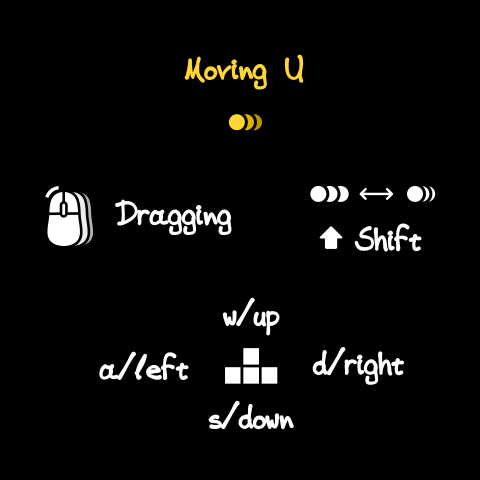
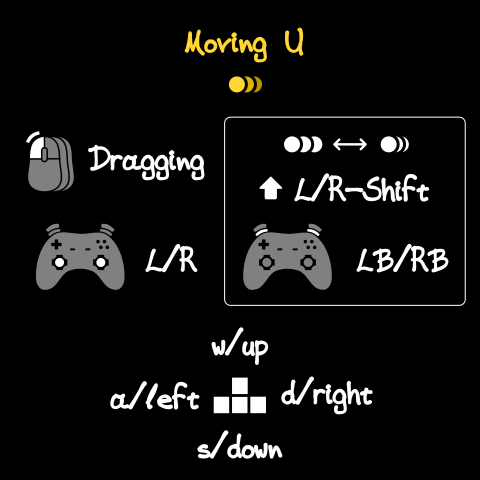
Support Gamepad control

diff --git a/src/reactor/state/running.rs b/src/reactor/state/running.rs
@@ -19,8 +19,10 @@ impl Plugin for StatePlugin {
             .add_systems(
                 Update,
                 (
+                    detect_sensitivity_modification,
                     control_u_by_mouse,
                     control_u_by_keyboard,
+                    control_u_by_gamepad,
                     handle_pause_btn.after(NavRequestSystem),
                     move_particle,
                     field::update_reactor_fields,
@@ -182,31 +184,6 @@ fn move_particle(
     }
 }
 
-fn control_u_by_mouse(
-    mut panel_query: Query<&Interaction, (With<Interaction>, With<GameControlPanel>)>,
-    mut u_particle_query: Query<(&mut Particle, &mut Transform), With<reactor::ControlParticle>>,
-    mut mouse_motion_events: EventReader<input::mouse::MouseMotion>,
-    keyboard_input: Res<Input<KeyCode>>,
-    settings: Res<Persistent<app::settings::Settings>>,
-) {
-    for interaction in &mut panel_query {
-        if *interaction == Interaction::Pressed {
-            let events = mouse_motion_events.read().collect::<Vec<_>>();
-            for event in events.iter().rev().take(3) {
-                let (mut u_particle, mut u_transform) = u_particle_query.get_single_mut().unwrap();
-                let new_pos = calculate_u_new_pos(
-                    u_particle.pos(),
-                    event.delta,
-                    current_sensitivity(&keyboard_input, &settings),
-                );
-                u_particle.jump(new_pos);
-                u_transform.translation.x = new_pos.x;
-                u_transform.translation.y = new_pos.y;
-            }
-        }
-    }
-}
-
 fn handle_pause_btn(
     mut actions: Query<&mut ButtonAction>,
     mut events: EventReader<NavEvent>,
@@ -218,14 +195,6 @@ fn handle_pause_btn(
             ButtonAction::Pause => reactor_state.set(reactor::ReactorState::Paused),
         },
     );
-}
-
-fn calculate_u_new_pos(current: Vec2, delta: Vec2, sensitivity: u8) -> Vec2 {
-    let delta_ratio = 0.5 + sensitivity as f32 / 100.0 * 5.0;
-    let field_rect = field::get_field_rect(uou::RADIUS + 3.0);
-    let new_x = (current.x + delta.x * delta_ratio).clamp(field_rect.min.x, field_rect.max.x);
-    let new_y = (current.y - delta.y * delta_ratio).clamp(field_rect.min.y, field_rect.max.y);
-    Vec2::new(new_x, new_y)
 }
 
 const HYPER_HIT_BASE_SCORE: u32 = 100;
@@ -444,14 +413,31 @@ fn handle_particle_reaction(
     }
 }
 
+fn control_u_by_mouse(
+    mut panel_query: Query<&Interaction, (With<Interaction>, With<GameControlPanel>)>,
+    mut u_particle_query: Query<(&mut Particle, &mut Transform), With<reactor::ControlParticle>>,
+    mut mouse_motion_events: EventReader<input::mouse::MouseMotion>,
+    settings: Res<Persistent<app::settings::Settings>>,
+    status: Res<reactor::status::ReactorStatus>,
+) {
+    for interaction in &mut panel_query {
+        if *interaction == Interaction::Pressed {
+            let events = mouse_motion_events.read().collect::<Vec<_>>();
+            for event in events.iter().rev().take(3) {
+                move_u(event.delta, &mut u_particle_query, &status, &settings);
+            }
+        }
+    }
+}
+
 const KEYBOARD_DELTA_BIAS: f32 = 1.5;
 
 fn control_u_by_keyboard(
     keyboard_input: Res<Input<KeyCode>>,
     mut u_particle_query: Query<(&mut Particle, &mut Transform), With<reactor::ControlParticle>>,
     settings: Res<Persistent<app::settings::Settings>>,
+    status: Res<reactor::status::ReactorStatus>,
 ) {
-    let (mut u_particle, mut u_transform) = u_particle_query.get_single_mut().unwrap();
     let mut delta: Vec2 = Vec2::default();
     if keyboard_input.pressed(KeyCode::W)
         || keyboard_input.pressed(KeyCode::Up)
@@ -477,23 +463,97 @@ fn control_u_by_keyboard(
     {
         delta.x = KEYBOARD_DELTA_BIAS;
     }
+    move_u(delta, &mut u_particle_query, &status, &settings);
+}
+
+const GAEMPAD_DELTA_BIAS: f32 = 2.0;
+const GAEMPAD_MIN_THRESHOLD: f32 = 0.25;
+
+fn control_u_by_gamepad(
+    mut events: EventReader<input::gamepad::GamepadEvent>,
+    mut u_particle_query: Query<(&mut Particle, &mut Transform), With<reactor::ControlParticle>>,
+    mut last_delta: Local<Vec2>,
+    settings: Res<Persistent<app::settings::Settings>>,
+    status: Res<reactor::status::ReactorStatus>,
+) {
+    for event in events.read() {
+        dbg!(event);
+        if let input::gamepad::GamepadEvent::Axis(axis_event) = event {
+            let mut delta: Vec2 = Vec2::default();
+            if axis_event.axis_type == input::gamepad::GamepadAxisType::LeftStickX
+                || axis_event.axis_type == input::gamepad::GamepadAxisType::RightStickX
+            {
+                delta.x = GAEMPAD_DELTA_BIAS * axis_event.value;
+                if axis_event.value.abs() > GAEMPAD_MIN_THRESHOLD {
+                    last_delta.x = delta.x;
+                } else {
+                    last_delta.x = 0.0;
+                }
+            }
+            if axis_event.axis_type == input::gamepad::GamepadAxisType::LeftStickY
+                || axis_event.axis_type == input::gamepad::GamepadAxisType::RightStickY
+            {
+                delta.y = GAEMPAD_DELTA_BIAS * axis_event.value * -1.0;
+                if axis_event.value.abs() > GAEMPAD_MIN_THRESHOLD {
+                    last_delta.y = delta.y;
+                } else {
+                    last_delta.y = 0.0;
+                }
+            }
+        }
+    }
+    move_u(*last_delta, &mut u_particle_query, &status, &settings);
+}
+
+fn move_u(
+    delta: Vec2,
+    u_particle_query: &mut Query<(&mut Particle, &mut Transform), With<reactor::ControlParticle>>,
+    status: &Res<reactor::status::ReactorStatus>,
+    settings: &Res<Persistent<app::settings::Settings>>,
+) {
+    let (mut u_particle, mut u_transform) = u_particle_query.get_single_mut().unwrap();
     let new_pos = calculate_u_new_pos(
         u_particle.pos(),
         delta,
-        current_sensitivity(&keyboard_input, &settings),
+        if status.in_modified_sensitivity {
+            settings.get_value("sensitivity_modified")
+        } else {
+            settings.get_value("sensitivity")
+        },
     );
     u_particle.jump(new_pos);
     u_transform.translation.x = new_pos.x;
     u_transform.translation.y = new_pos.y;
 }
 
-fn current_sensitivity(
-    keyboard_input: &Res<Input<KeyCode>>,
-    settings: &Res<Persistent<app::settings::Settings>>,
-) -> u8 {
-    if keyboard_input.pressed(KeyCode::ShiftLeft) || keyboard_input.pressed(KeyCode::ShiftRight) {
-        settings.get_value("sensitivity_modified")
-    } else {
-        settings.get_value("sensitivity")
+fn calculate_u_new_pos(current: Vec2, delta: Vec2, sensitivity: u8) -> Vec2 {
+    let delta_ratio = 0.5 + sensitivity as f32 / 100.0 * 5.0;
+    let field_rect = field::get_field_rect(uou::RADIUS + 3.0);
+    let new_x = (current.x + delta.x * delta_ratio).clamp(field_rect.min.x, field_rect.max.x);
+    let new_y = (current.y - delta.y * delta_ratio).clamp(field_rect.min.y, field_rect.max.y);
+    Vec2::new(new_x, new_y)
+}
+
+fn detect_sensitivity_modification(
+    keyboard_input: Res<Input<KeyCode>>,
+    mut button_changed_events: EventReader<input::gamepad::GamepadButtonChangedEvent>,
+    mut status: ResMut<reactor::status::ReactorStatus>,
+) {
+    for btn_event in button_changed_events.read() {
+        if btn_event.button_type == input::gamepad::GamepadButtonType::RightTrigger
+            || btn_event.button_type == input::gamepad::GamepadButtonType::LeftTrigger
+        {
+            status.in_modified_sensitivity = btn_event.value == 1.0;
+        }
+    }
+    if keyboard_input.just_pressed(KeyCode::ShiftLeft)
+        || keyboard_input.just_pressed(KeyCode::ShiftRight)
+    {
+        status.in_modified_sensitivity = true;
+    }
+    if keyboard_input.just_released(KeyCode::ShiftLeft)
+        || keyboard_input.just_released(KeyCode::ShiftRight)
+    {
+        status.in_modified_sensitivity = false;
     }
 }

diff --git a/src/page/settings.rs b/src/page/settings.rs
@@ -27,8 +27,10 @@ impl PageDefBase for PageDef {
             .add_systems(
                 Update,
                 (
-                    move_test_panel_action,
+                    detect_sensitivity_modification,
+                    control_test_ball_by_mouse,
                     control_test_ball_by_keyboard,
+                    control_test_ball_by_gamepad,
                     (
                         handle_slider_mouse_interaction,
                         handle_ui_navigation,
@@ -365,34 +367,18 @@ fn handle_slider_mouse_interaction(
     }
 }
 
-fn move_test_panel_action(
+fn control_test_ball_by_mouse(
     mut panel_query: Query<(&Interaction, &Children), With<MoveTestPanel>>,
     mut ball_query: Query<&mut Style, With<MoveTestBall>>,
     mut mouse_motion_events: EventReader<input::mouse::MouseMotion>,
-    keyboard_input: Res<Input<KeyCode>>,
     settings: Res<Persistent<app::settings::Settings>>,
+    status: Res<reactor::status::ReactorStatus>,
 ) {
     for (interaction, children) in &mut panel_query {
         if *interaction == Interaction::Pressed {
             let events = mouse_motion_events.read().collect::<Vec<_>>();
             if let Some(event) = events.iter().rev().take(3).next() {
-                let mut ball_style = ball_query.get_mut(children[0]).unwrap();
-                let ori_x: f32 = match ball_style.left {
-                    Val::Px(value) => value,
-                    _ => 0.,
-                };
-                let ori_y: f32 = match ball_style.top {
-                    Val::Px(value) => value,
-                    _ => 0.,
-                };
-
-                let new_pos = calculate_test_ball_pos(
-                    (ori_x, ori_y),
-                    event.delta,
-                    current_sensitivity(&keyboard_input, &settings),
-                );
-                ball_style.left = Val::Px(new_pos.0);
-                ball_style.top = Val::Px(new_pos.1);
+                move_test_ball(event.delta, children, &mut ball_query, &status, &settings);
             }
         }
     }
@@ -593,22 +579,12 @@ fn calculate_test_ball_pos(current: (f32, f32), delta: Vec2, sensitivity: u8) ->
 
 const KEYBOARD_DELTA_BIAS: f32 = 1.5;
 
-fn current_sensitivity(
-    keyboard_input: &Res<Input<KeyCode>>,
-    settings: &Res<Persistent<app::settings::Settings>>,
-) -> u8 {
-    if keyboard_input.pressed(KeyCode::ShiftLeft) || keyboard_input.pressed(KeyCode::ShiftRight) {
-        settings.get_value("sensitivity_modified")
-    } else {
-        settings.get_value("sensitivity")
-    }
-}
-
 fn control_test_ball_by_keyboard(
     keyboard_input: Res<Input<KeyCode>>,
     panel_query: Query<(&Interaction, &Children), With<MoveTestPanel>>,
     mut ball_query: Query<&mut Style, With<MoveTestBall>>,
     settings: Res<Persistent<app::settings::Settings>>,
+    status: Res<reactor::status::ReactorStatus>,
 ) {
     let mut delta: Vec2 = Vec2::default();
     if keyboard_input.pressed(KeyCode::W)
@@ -636,7 +612,82 @@ fn control_test_ball_by_keyboard(
         delta.x = KEYBOARD_DELTA_BIAS;
     }
     let (_, children) = panel_query.single();
-    let mut ball_style = ball_query.get_mut(children[0]).unwrap();
+    move_test_ball(delta, children, &mut ball_query, &status, &settings);
+}
+
+const GAEMPAD_DELTA_BIAS: f32 = 2.0;
+const GAEMPAD_MIN_THRESHOLD: f32 = 0.25;
+
+fn control_test_ball_by_gamepad(
+    mut events: EventReader<input::gamepad::GamepadEvent>,
+    panel_query: Query<(&Interaction, &Children), With<MoveTestPanel>>,
+    mut ball_query: Query<&mut Style, With<MoveTestBall>>,
+    mut last_delta: Local<Vec2>,
+    settings: Res<Persistent<app::settings::Settings>>,
+    status: Res<reactor::status::ReactorStatus>,
+) {
+    for event in events.read() {
+        dbg!(event);
+        if let input::gamepad::GamepadEvent::Axis(axis_event) = event {
+            let mut delta: Vec2 = Vec2::default();
+            if axis_event.axis_type == input::gamepad::GamepadAxisType::LeftStickX
+                || axis_event.axis_type == input::gamepad::GamepadAxisType::RightStickX
+            {
+                delta.x = GAEMPAD_DELTA_BIAS * axis_event.value;
+                if axis_event.value.abs() > GAEMPAD_MIN_THRESHOLD {
+                    last_delta.x = delta.x;
+                } else {
+                    last_delta.x = 0.0;
+                }
+            }
+            if axis_event.axis_type == input::gamepad::GamepadAxisType::LeftStickY
+                || axis_event.axis_type == input::gamepad::GamepadAxisType::RightStickY
+            {
+                delta.y = GAEMPAD_DELTA_BIAS * axis_event.value * -1.0;
+                if axis_event.value.abs() > GAEMPAD_MIN_THRESHOLD {
+                    last_delta.y = delta.y;
+                } else {
+                    last_delta.y = 0.0;
+                }
+            }
+        }
+    }
+    let (_, children) = panel_query.single();
+    move_test_ball(*last_delta, children, &mut ball_query, &status, &settings);
+}
+
+fn detect_sensitivity_modification(
+    keyboard_input: Res<Input<KeyCode>>,
+    mut button_changed_events: EventReader<input::gamepad::GamepadButtonChangedEvent>,
+    mut status: ResMut<reactor::status::ReactorStatus>,
+) {
+    for btn_event in button_changed_events.read() {
+        if btn_event.button_type == input::gamepad::GamepadButtonType::RightTrigger
+            || btn_event.button_type == input::gamepad::GamepadButtonType::LeftTrigger
+        {
+            status.in_modified_sensitivity = btn_event.value == 1.0;
+        }
+    }
+    if keyboard_input.just_pressed(KeyCode::ShiftLeft)
+        || keyboard_input.just_pressed(KeyCode::ShiftRight)
+    {
+        status.in_modified_sensitivity = true;
+    }
+    if keyboard_input.just_released(KeyCode::ShiftLeft)
+        || keyboard_input.just_released(KeyCode::ShiftRight)
+    {
+        status.in_modified_sensitivity = false;
+    }
+}
+
+fn move_test_ball(
+    delta: Vec2,
+    panel_children: &Children,
+    ball_query: &mut Query<&mut Style, With<MoveTestBall>>,
+    status: &Res<reactor::status::ReactorStatus>,
+    settings: &Res<Persistent<app::settings::Settings>>,
+) {
+    let mut ball_style = ball_query.get_mut(panel_children[0]).unwrap();
     let ori_x: f32 = match ball_style.left {
         Val::Px(value) => value,
         _ => 0.,
@@ -649,7 +700,11 @@ fn control_test_ball_by_keyboard(
     let new_pos = calculate_test_ball_pos(
         (ori_x, ori_y),
         delta,
-        current_sensitivity(&keyboard_input, &settings),
+        if status.in_modified_sensitivity {
+            settings.get_value("sensitivity_modified")
+        } else {
+            settings.get_value("sensitivity")
+        },
     );
     ball_style.left = Val::Px(new_pos.0);
     ball_style.top = Val::Px(new_pos.1);

diff --git a/src/reactor/status.rs b/src/reactor/status.rs
@@ -15,6 +15,7 @@ pub struct ReactorStatus {
     pub player_name: String,
     pub highlight_uid: String,
     pub done_achievements: Vec<String>,
+    pub in_modified_sensitivity: bool,
     current_chain: StatusChain,
     chain_length: u32,
     time: u32,
